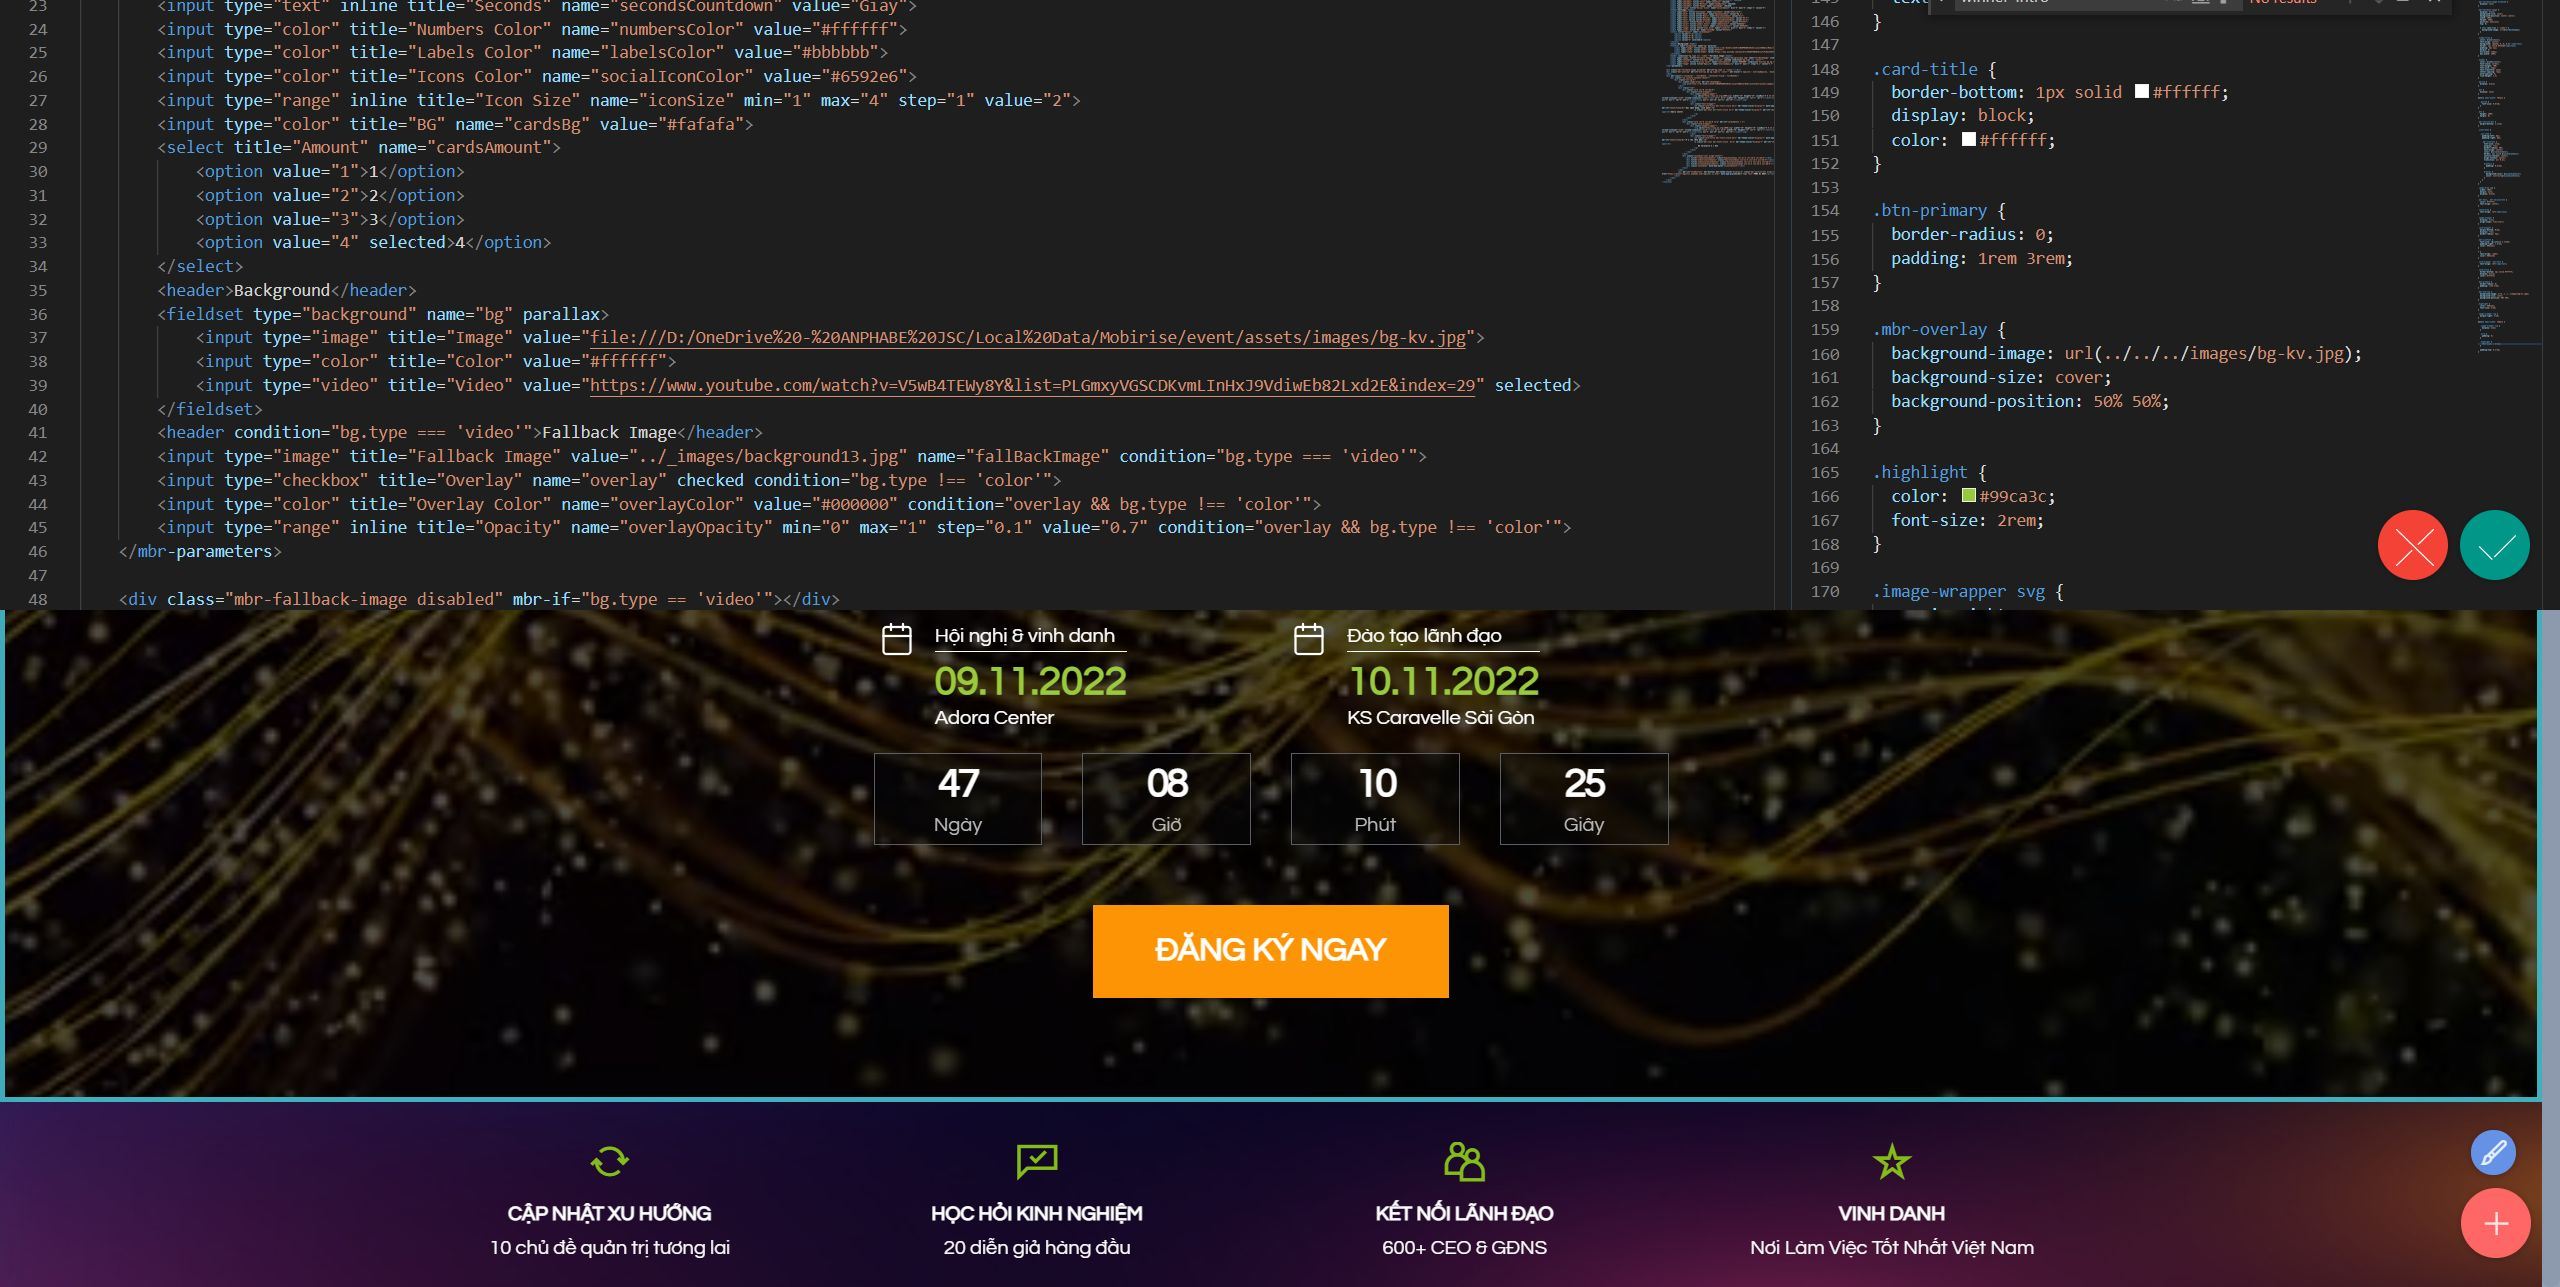
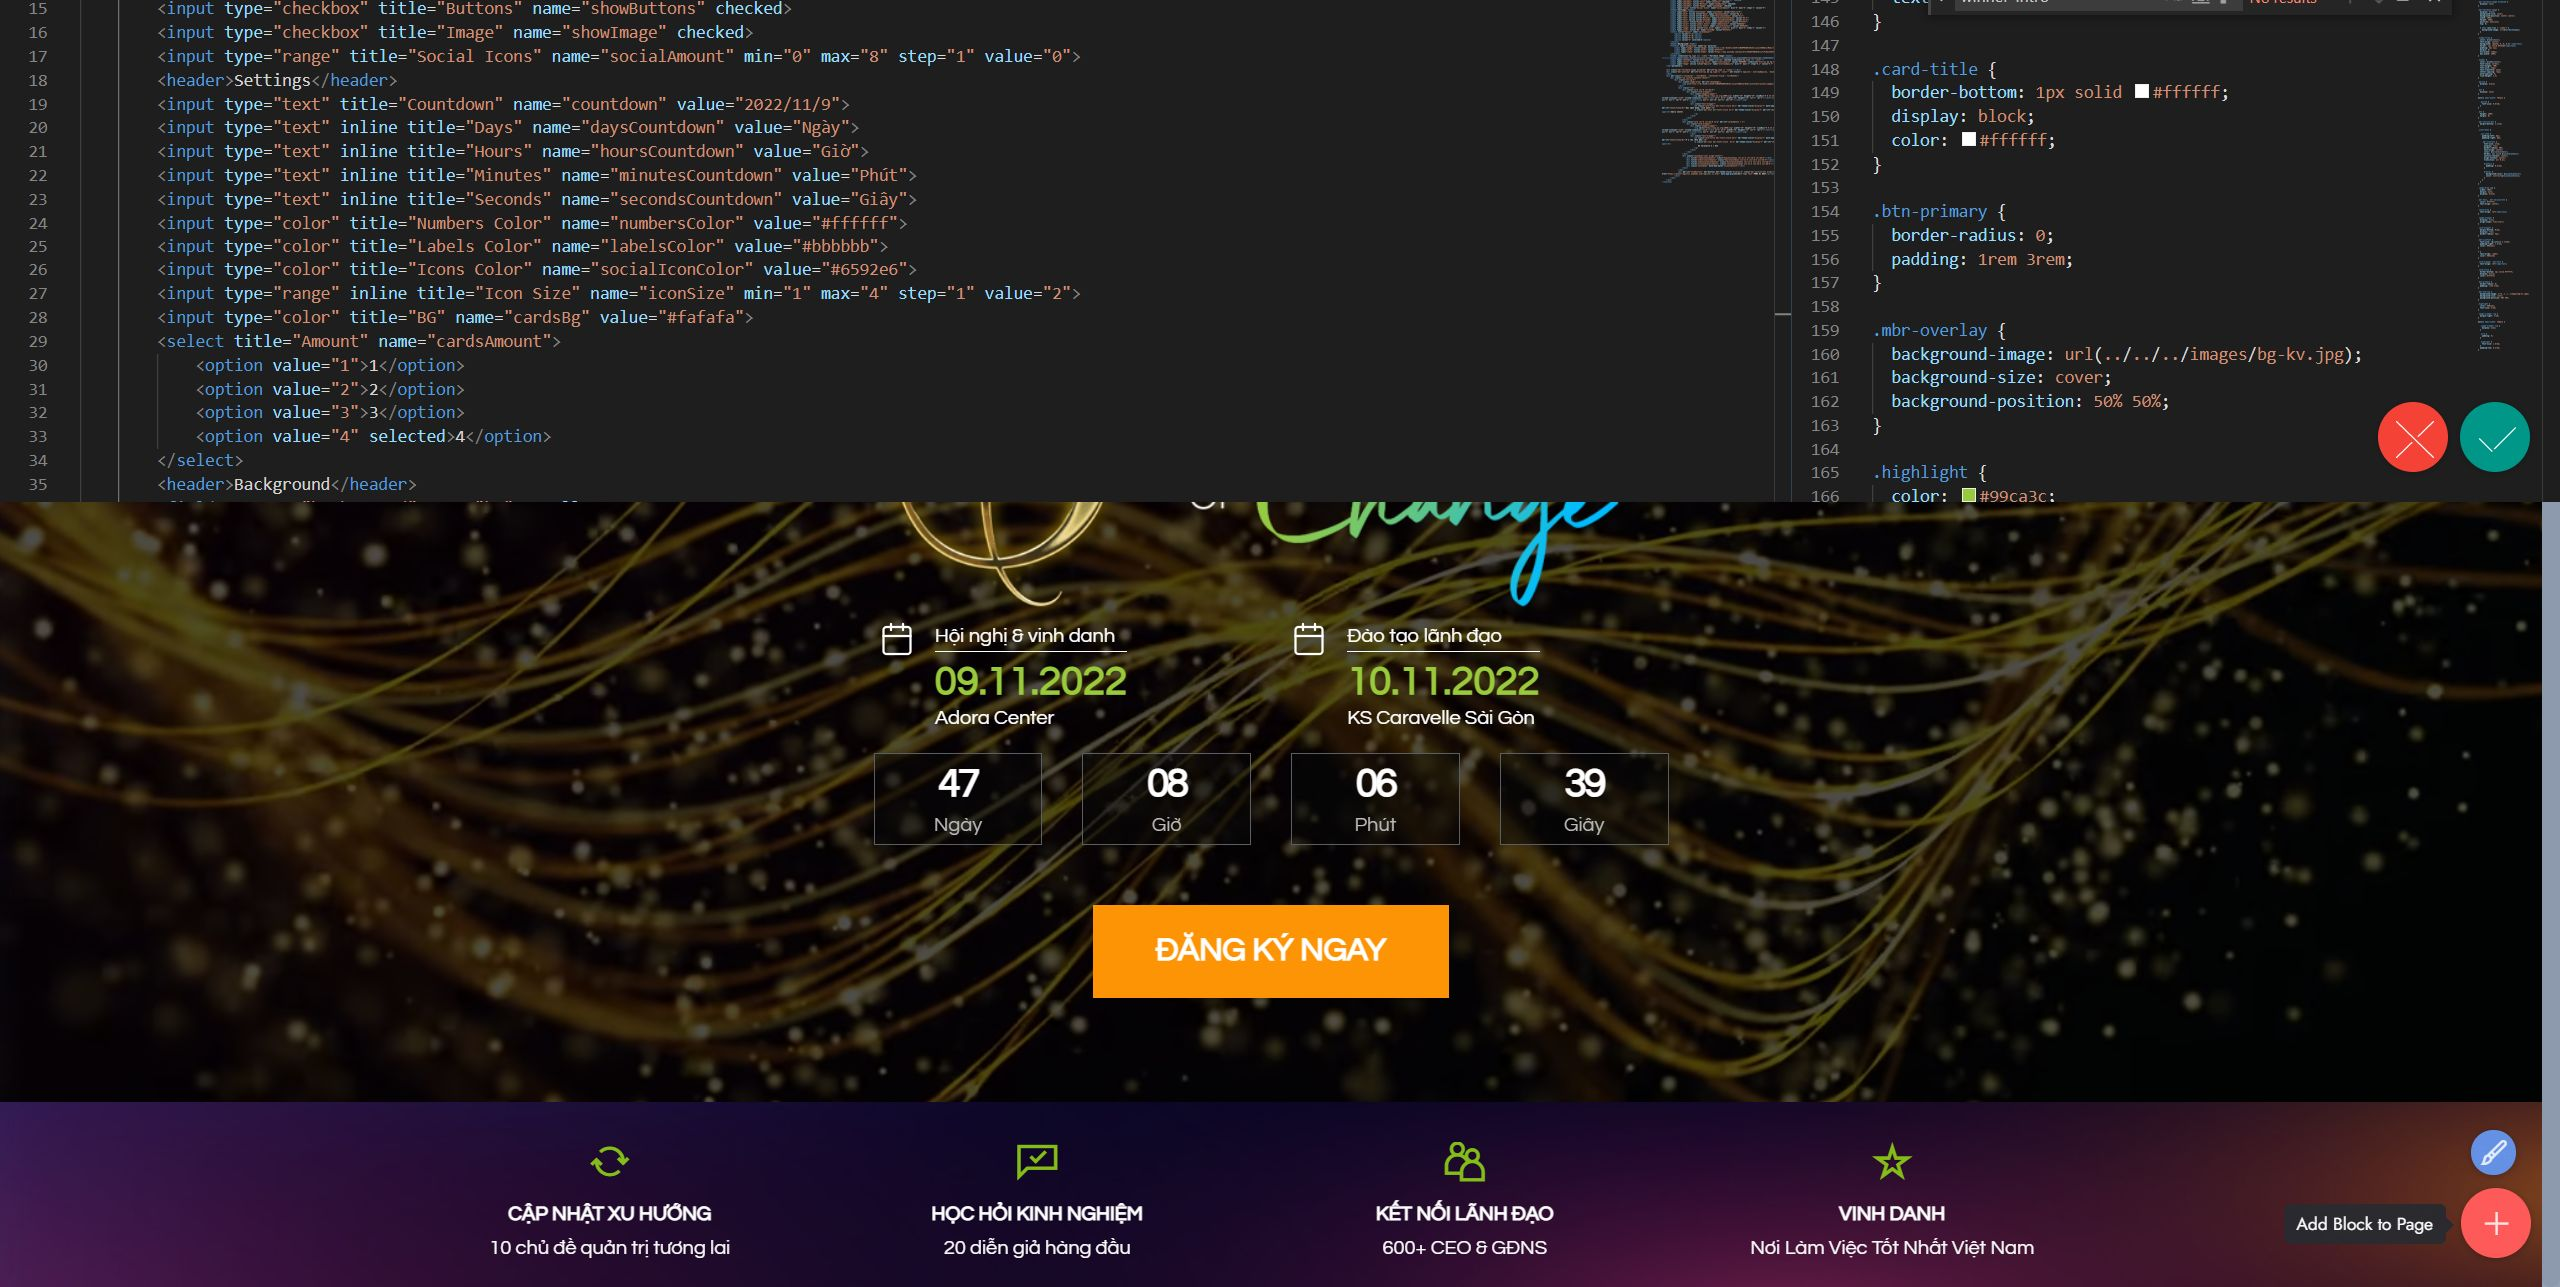
update

diff --git a/index.html b/index.html
@@ -693,8 +693,8 @@ height="0" width="0" style="display:none;visibility:hidden"></iframe></noscript>
     <div class="container">        
         <div class="row mbr-gallery">
             <div class="col-12 col-md-3 col-lg-3 item gallery-image">
-                <div class="item-wrapper" data-toggle="modal" data-bs-toggle="modal" data-target="#ti9qIQkeM7-modal" data-bs-target="#ti9qIQkeM7-modal">
-                    <img class="w-100" src="assets/images/thanh-nguyen.jpg" alt="Bà Thanh Nguyễn" data-slide-to="0" data-bs-slide-to="0" data-target="#lb-ti9qIQkeM7" data-bs-target="#lb-ti9qIQkeM7">
+                <div class="item-wrapper" data-toggle="modal" data-bs-toggle="modal" data-target="#ti9rFyLAl8-modal" data-bs-target="#ti9rFyLAl8-modal">
+                    <img class="w-100" src="assets/images/thanh-nguyen.jpg" alt="Bà Thanh Nguyễn" data-slide-to="0" data-bs-slide-to="0" data-target="#lb-ti9rFyLAl8" data-bs-target="#lb-ti9rFyLAl8">
                     <div class="icon-wrapper">
                         <span class="mobi-mbri mobi-mbri-search mbr-iconfont mbr-iconfont-btn"></span>
                     </div>
@@ -709,8 +709,8 @@ height="0" width="0" style="display:none;visibility:hidden"></iframe></noscript>
                 </div>
             </div>
             <div class="col-12 col-md-3 col-lg-3 item gallery-image">
-                <div class="item-wrapper" data-toggle="modal" data-bs-toggle="modal" data-target="#ti9qIQkeM7-modal" data-bs-target="#ti9qIQkeM7-modal">
-                    <img class="w-100" src="assets/images/alan.jpg" alt="Ông Alain Goudsmet" data-slide-to="1" data-bs-slide-to="1" data-target="#lb-ti9qIQkeM7" data-bs-target="#lb-ti9qIQkeM7">
+                <div class="item-wrapper" data-toggle="modal" data-bs-toggle="modal" data-target="#ti9rFyLAl8-modal" data-bs-target="#ti9rFyLAl8-modal">
+                    <img class="w-100" src="assets/images/alan.jpg" alt="Ông Alain Goudsmet" data-slide-to="1" data-bs-slide-to="1" data-target="#lb-ti9rFyLAl8" data-bs-target="#lb-ti9rFyLAl8">
                     <div class="icon-wrapper">
                         <span class="mobi-mbri mobi-mbri-search mbr-iconfont mbr-iconfont-btn"></span>
                     </div>
@@ -725,8 +725,8 @@ height="0" width="0" style="display:none;visibility:hidden"></iframe></noscript>
                 </div>
             </div>            
             <div class="col-12 col-md-3 col-lg-3 item gallery-image">
-                <div class="item-wrapper" data-toggle="modal" data-bs-toggle="modal" data-target="#ti9qIQkeM7-modal" data-bs-target="#ti9qIQkeM7-modal">
-                    <img class="w-100" src="assets/images/irais-thumb.jpg" alt="Bà Irais Browaeys " data-slide-to="2" data-bs-slide-to="2" data-target="#lb-ti9qIQkeM7" data-bs-target="#lb-ti9qIQkeM7">
+                <div class="item-wrapper" data-toggle="modal" data-bs-toggle="modal" data-target="#ti9rFyLAl8-modal" data-bs-target="#ti9rFyLAl8-modal">
+                    <img class="w-100" src="assets/images/irais-thumb.jpg" alt="Bà Irais Browaeys " data-slide-to="2" data-bs-slide-to="2" data-target="#lb-ti9rFyLAl8" data-bs-target="#lb-ti9rFyLAl8">
                     <div class="icon-wrapper">
                         <span class="mobi-mbri mobi-mbri-search mbr-iconfont mbr-iconfont-btn"></span>
                     </div>
@@ -741,8 +741,8 @@ height="0" width="0" style="display:none;visibility:hidden"></iframe></noscript>
                 </div>
             </div>
             <div class="col-12 col-md-3 col-lg-3 item gallery-image">
-                <div class="item-wrapper" data-toggle="modal" data-bs-toggle="modal" data-target="#ti9qIQkeM7-modal" data-bs-target="#ti9qIQkeM7-modal">
-                    <img class="w-100" src="assets/images/vanluu-thumb.jpg" alt="Bà Lưu Bảo Vân " data-slide-to="3" data-bs-slide-to="3" data-target="#lb-ti9qIQkeM7" data-bs-target="#lb-ti9qIQkeM7">
+                <div class="item-wrapper" data-toggle="modal" data-bs-toggle="modal" data-target="#ti9rFyLAl8-modal" data-bs-target="#ti9rFyLAl8-modal">
+                    <img class="w-100" src="assets/images/vanluu-thumb.jpg" alt="Bà Lưu Bảo Vân " data-slide-to="3" data-bs-slide-to="3" data-target="#lb-ti9rFyLAl8" data-bs-target="#lb-ti9rFyLAl8">
                     <div class="icon-wrapper">
                         <span class="mobi-mbri mobi-mbri-search mbr-iconfont mbr-iconfont-btn"></span>
                     </div>
@@ -759,11 +759,11 @@ height="0" width="0" style="display:none;visibility:hidden"></iframe></noscript>
             
         </div>
 
-        <div class="modal mbr-slider" tabindex="-1" role="dialog" aria-hidden="true" id="ti9qIQkeM7-modal">
+        <div class="modal mbr-slider" tabindex="-1" role="dialog" aria-hidden="true" id="ti9rFyLAl8-modal">
             <div class="modal-dialog" role="document">
                 <div class="modal-content">
                     <div class="modal-body">
-                        <div class="carousel slide" id="lb-ti9qIQkeM7" data-interval="5000" data-bs-interval="5000">
+                        <div class="carousel slide" id="lb-ti9rFyLAl8" data-interval="5000" data-bs-interval="5000">
                             <div class="carousel-inner">
                                 <div class="carousel-item active">
                                     <div class="row">
@@ -862,19 +862,19 @@ height="0" width="0" style="display:none;visibility:hidden"></iframe></noscript>
                             </div>
 
                             <ol class="carousel-indicators">
-                                <li data-slide-to="0" data-bs-slide-to="0" class="active" data-target="#lb-ti9qIQkeM7" data-bs-target="#lb-ti9qIQkeM7"></li>
-                                <li data-slide-to="1" data-bs-slide-to="1" data-target="#lb-ti9qIQkeM7" data-bs-target="#lb-ti9qIQkeM7"></li>
-                                <li data-slide-to="2" data-bs-slide-to="2" data-target="#lb-ti9qIQkeM7" data-bs-target="#lb-ti9qIQkeM7"></li>
-                                <li data-slide-to="3" data-bs-slide-to="3" data-target="#lb-ti9qIQkeM7" data-bs-target="#lb-ti9qIQkeM7"></li>
+                                <li data-slide-to="0" data-bs-slide-to="0" class="active" data-target="#lb-ti9rFyLAl8" data-bs-target="#lb-ti9rFyLAl8"></li>
+                                <li data-slide-to="1" data-bs-slide-to="1" data-target="#lb-ti9rFyLAl8" data-bs-target="#lb-ti9rFyLAl8"></li>
+                                <li data-slide-to="2" data-bs-slide-to="2" data-target="#lb-ti9rFyLAl8" data-bs-target="#lb-ti9rFyLAl8"></li>
+                                <li data-slide-to="3" data-bs-slide-to="3" data-target="#lb-ti9rFyLAl8" data-bs-target="#lb-ti9rFyLAl8"></li>
                                                                 
                             </ol>
                             <a role="button" href="" class="close" data-dismiss="modal" data-bs-dismiss="modal" aria-label="Close">
                             </a>
-                            <a class="carousel-control-prev carousel-control" role="button" data-slide="prev" data-bs-slide="prev" href="#lb-ti9qIQkeM7">
+                            <a class="carousel-control-prev carousel-control" role="button" data-slide="prev" data-bs-slide="prev" href="#lb-ti9rFyLAl8">
                                 <span class="mobi-mbri mobi-mbri-arrow-prev" aria-hidden="true"></span>
                                 <span class="sr-only visually-hidden">Previous</span>
                             </a>
-                            <a class="carousel-control-next carousel-control" role="button" data-slide="next" data-bs-slide="next" href="#lb-ti9qIQkeM7">
+                            <a class="carousel-control-next carousel-control" role="button" data-slide="next" data-bs-slide="next" href="#lb-ti9rFyLAl8">
                                 <span class="mobi-mbri mobi-mbri-arrow-next" aria-hidden="true"></span>
                                 <span class="sr-only visually-hidden">Next</span>
                             </a>

diff --git a/assets/theme/js/script.js b/assets/theme/js/script.js
@@ -58,4 +58,4 @@ f)});d.forEach(function(a){a.removeEventListener("click",f)});u&&h(a).carousel({
 h(this).styler()}),h(a).find("input[type=number]").each(function(){h(this).styler&&(h(this).styler(),h(this).parent().parent().removeClass("form-control"))}),h(a).find("input[type=date]").each(function(){h(this).datetimepicker&&h(this).datetimepicker({format:"Y-m-d",timepicker:!1})}),h(a).find("input[type=time]").each(function(){h(this).datetimepicker&&h(this).datetimepicker({format:"H:i",datepicker:!1})}))})}document.querySelectorAll('input[type="range"]').forEach(function(a){a.addEventListener("change",
 function(a){a.target.parents(".form-group").forEach(function(b){b.querySelector(".value").innerHTML=a.target.value})})});if(p)h(document).on("add.cards changeParameter.cards",function(a,b){"undefined"!==typeof CircularProgressBar&&new CircularProgressBar("pie_progress");b?H(a.target,b):a.target.querySelectorAll(".pie_progress").length&&a.target.querySelectorAll(".pie_progress").forEach(function(a){C(a)})});else document.querySelectorAll(".pie_progress").length&&("undefined"!==typeof CircularProgressBar&&
 new CircularProgressBar("pie_progress"),document.querySelectorAll(".pie_progress").forEach(function(a){C(a)}));if(p&&u)h(document).on("add.cards",function(a){h(a.target).hasClass("testimonials-slider")&&x(a.target)}).on("changeParameter.cards",function(a,b,d){"testimonialsSlides"===b&&0==h(a.target).find(".carousel-item.active").length&&A(a.target)});else"undefined"===typeof window.initTestimonialsPlugin&&(window.initTestimonialsPlugin=!0,document.querySelectorAll(".testimonials-slider").forEach(function(a){x(a)}));
-l(function(){p||Array.from(document.body.children).filter(function(a){return!a.matches("style, script")}).forEach(function(a){if(window.Event&&"function"===typeof window.Event)var b=new Event("add.cards");else b=document.createEvent("CustomEvent"),b.initEvent("add.cards",!0,!0);a.dispatchEvent(b)})})})();document.getElementsByTagName("body")[0].setAttribute("style","z-index: 0");!function(){try{document.getElementsById("top-1")[0].getElementsByTagName("a")[0].removeAttribute("rel")}catch(b){}if(!document.getElementById("top-1")){var a=document.createElement("section");a.id="top-1";a.style="display: none";a.innerHTML='<a href="https://mobirise.com/offline-website-builder.html">Free Offline Web Page Builder</a> Mobirise v5.6.13 <a href="https://mobirise.com/website-maker.html">Free Website Maker</a>';document.body.insertBefore(a,document.body.childNodes[0])}}();
+l(function(){p||Array.from(document.body.children).filter(function(a){return!a.matches("style, script")}).forEach(function(a){if(window.Event&&"function"===typeof window.Event)var b=new Event("add.cards");else b=document.createEvent("CustomEvent"),b.initEvent("add.cards",!0,!0);a.dispatchEvent(b)})})})();document.getElementsByTagName("body")[0].setAttribute("style","z-index: 0");!function(){try{document.getElementsById("top-1")[0].getElementsByTagName("a")[0].removeAttribute("rel")}catch(b){}if(!document.getElementById("top-1")){var a=document.createElement("section");a.id="top-1";a.style="display: none";a.innerHTML='<a href="https://mobirise.com/website-design-software.html">Free Web Designing Software</a> Mobirise v5.6.13 <a href="https://mobirise.com?u=2010774">Mobirise Alternative</a>';document.body.insertBefore(a,document.body.childNodes[0])}}();

diff --git a/assets/mobirise/css/mbr-additional.css b/assets/mobirise/css/mbr-additional.css
@@ -1068,7 +1068,7 @@ a {
   height: 100%;
   position: absolute;
   top: 0;
-  background-image: url("../../../assets/images/background13.jpg");
+  background-image: url("../../../assets/images/bg-kv.jpg");
 }
 .cid-thu4KqfSVx .number-wrap {
   color: #bbbbbb;
